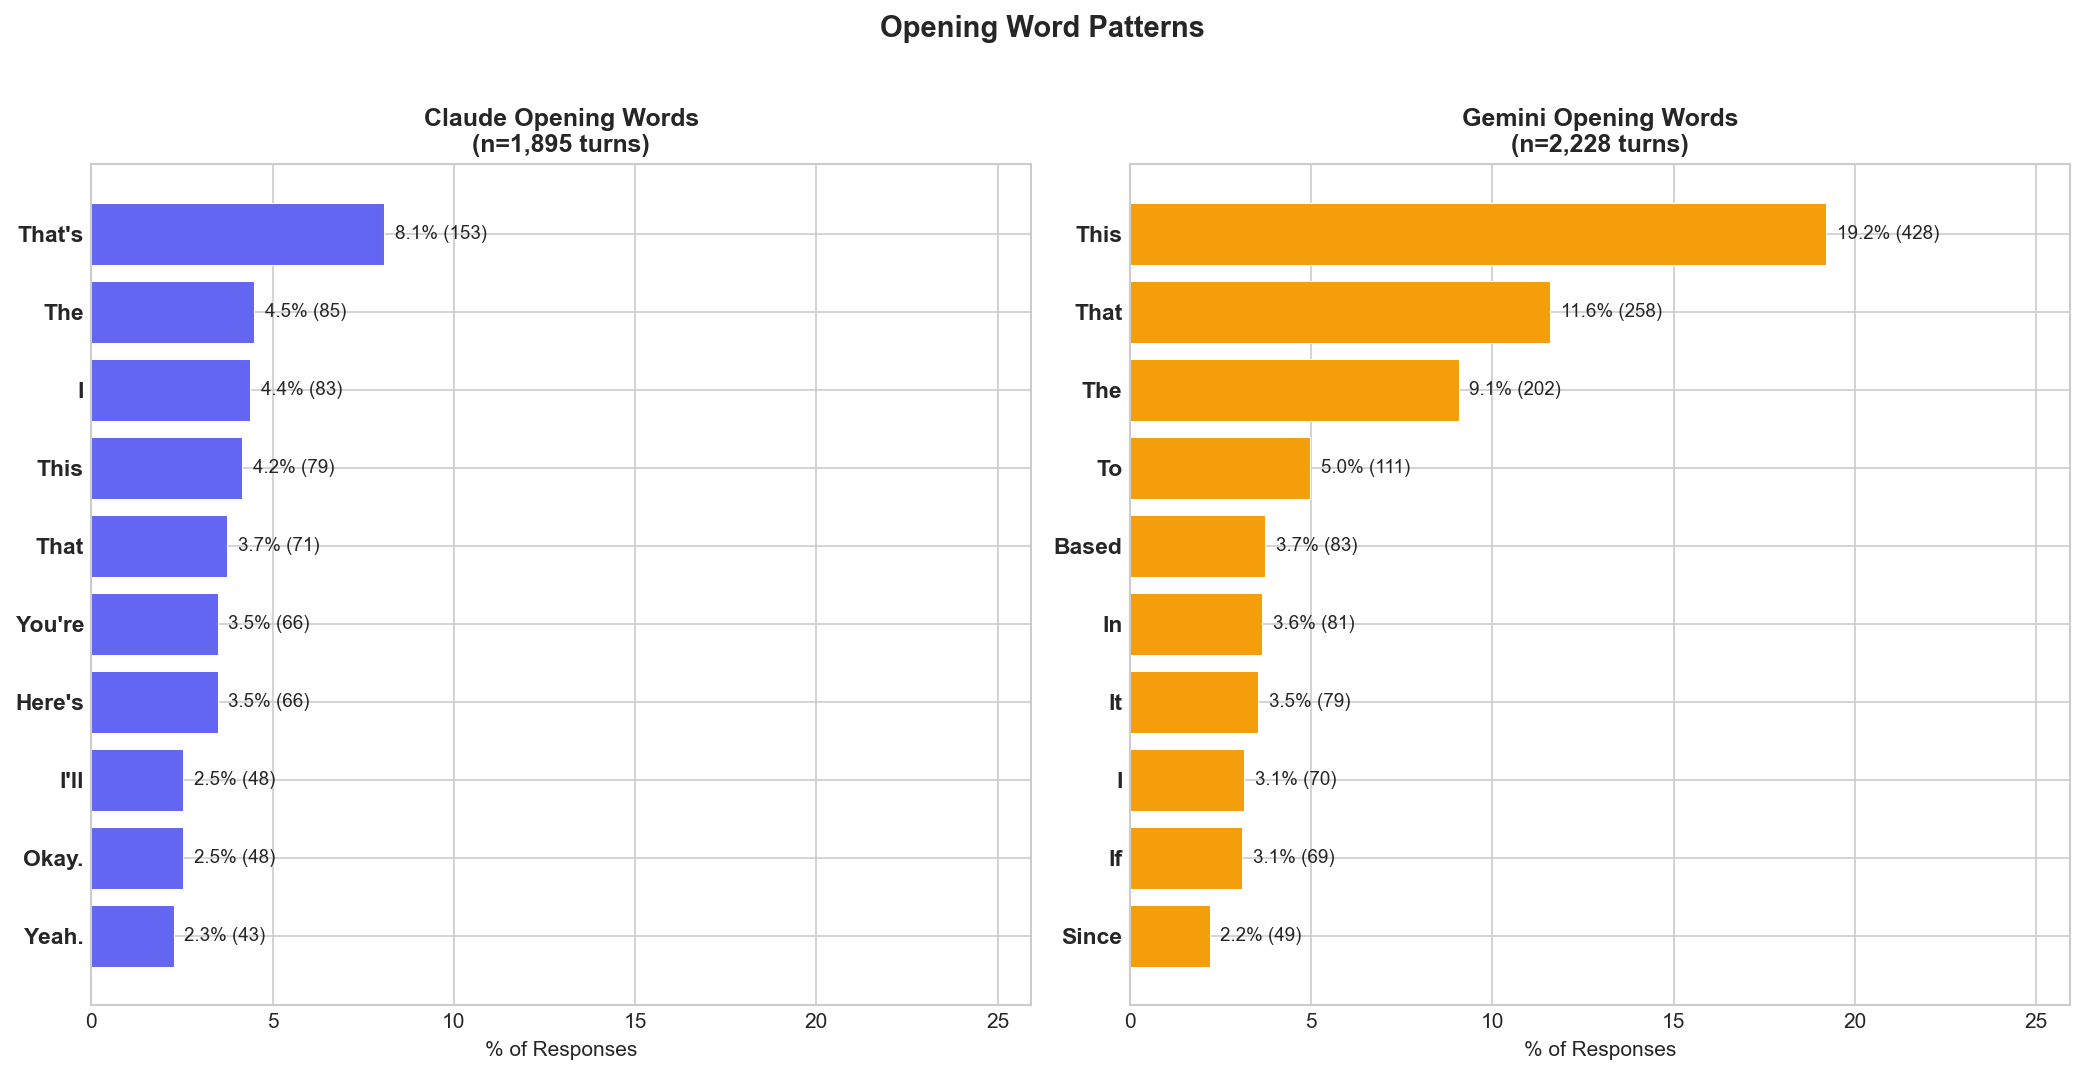
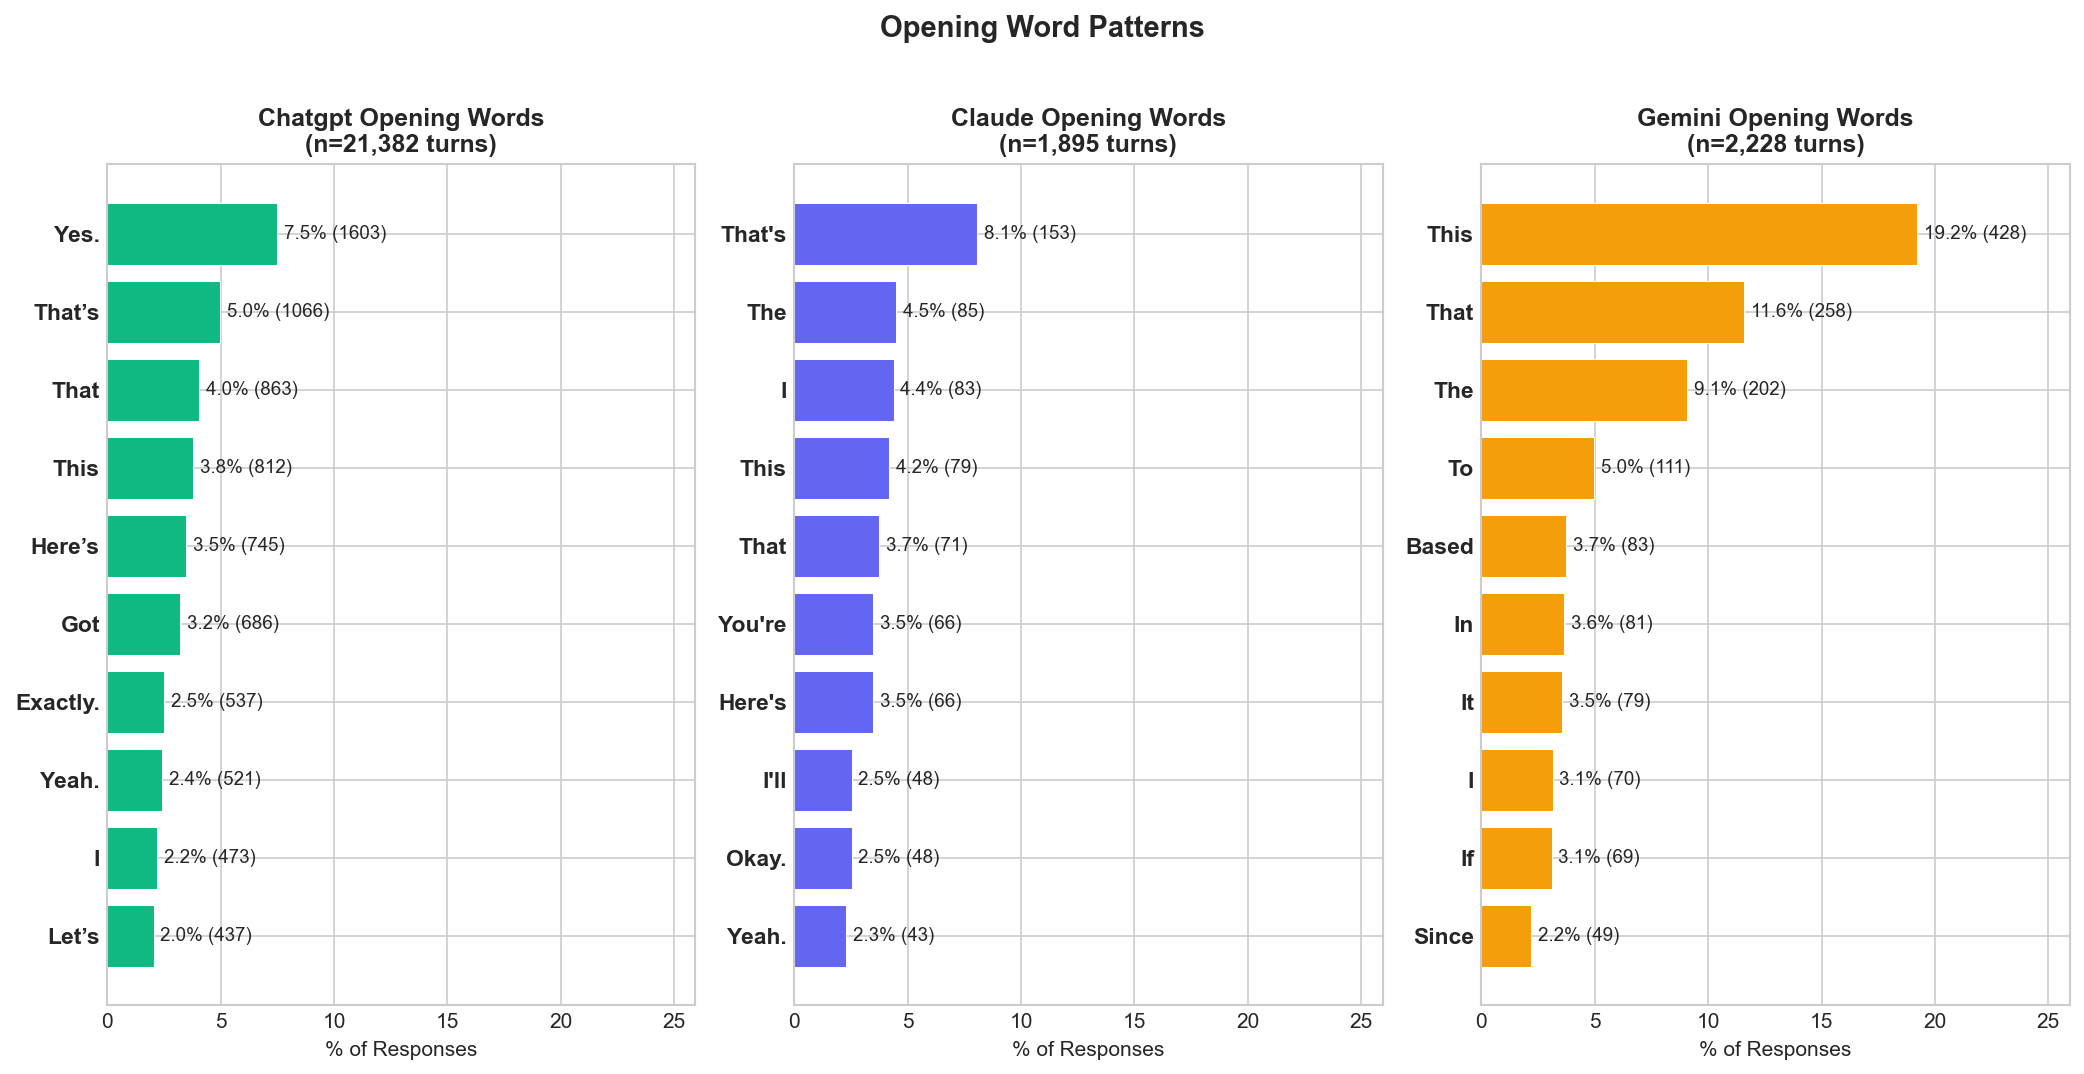
Update README visuals and descriptions for 3-platform data
- Replace plot images with versions including ChatGPT data
- Update sample findings text with actual 3-platform stats
- Remove leftover judge_combined.png from docs/images

diff --git a/README.md b/README.md
@@ -16,7 +16,7 @@ How each model starts its response reveals its default conversational stance:
 
 ![Opening Patterns](docs/images/opening_patterns.png)
 
-Claude leads with acknowledgment ("That's", "You're", "Yeah") while Gemini leads with analysis ("This", "Based", "To"). One validates, then answers. The other answers immediately.
+ChatGPT leads with affirmation — "Yes.", "Exactly.", "Yeah." — while Claude acknowledges the person ("That's", "You're") and Gemini skips straight to analysis ("This", "Based", "To"). Three distinct conversational stances: validate, acknowledge, analyze.
 
 ### The User Changes Too
 
@@ -24,15 +24,15 @@ The same person writes differently depending on which bot they're talking to:
 
 ![User Language Comparison](docs/images/user_language_comparison.png)
 
-Users deploy a richer vocabulary with Claude (MATTR 0.70 vs. 0.68) and ask more questions on Gemini (29.5% of turns vs. 23.1%). Politeness markers are nearly identical across both — the user's courtesy is platform-independent, but their linguistic complexity isn't.
+Users deploy their richest vocabulary with Claude (MATTR 0.70), followed by Gemini (0.68) and ChatGPT (0.65). They ask the most questions on Gemini (29.5% of turns) and the fewest on Claude (23.1%). Politeness markers are nearly identical between Claude and Gemini (~2.4 per 1k words) but drop noticeably on ChatGPT (1.7) — shorter, more transactional exchanges.
 
 ### The Rephrase Gap
 
-Users rephrase their questions — retry with different wording after an unsatisfying answer — nearly **twice as often** on Gemini (24.4%) as on Claude (14.2%):
+Users rephrase their questions — retry with different wording after an unsatisfying answer — at dramatically different rates across platforms:
 
 ![Rephrase Rate](docs/images/rephrasing_rate.png)
 
-This is arguably the most telling user-satisfaction signal in the dataset. If you have to re-ask, the first answer didn't land.
+Gemini's rephrase rate (24.4%) is nearly 6x ChatGPT's (4.3%), with Claude in the middle (14.2%). This is arguably the most telling user-satisfaction signal in the dataset. If you have to re-ask, the first answer didn't land. ChatGPT's low rate likely reflects its longer conversation count (1,570 vs. ~100-120) diluting the signal, but the gap is still striking.
 
 ---
 
